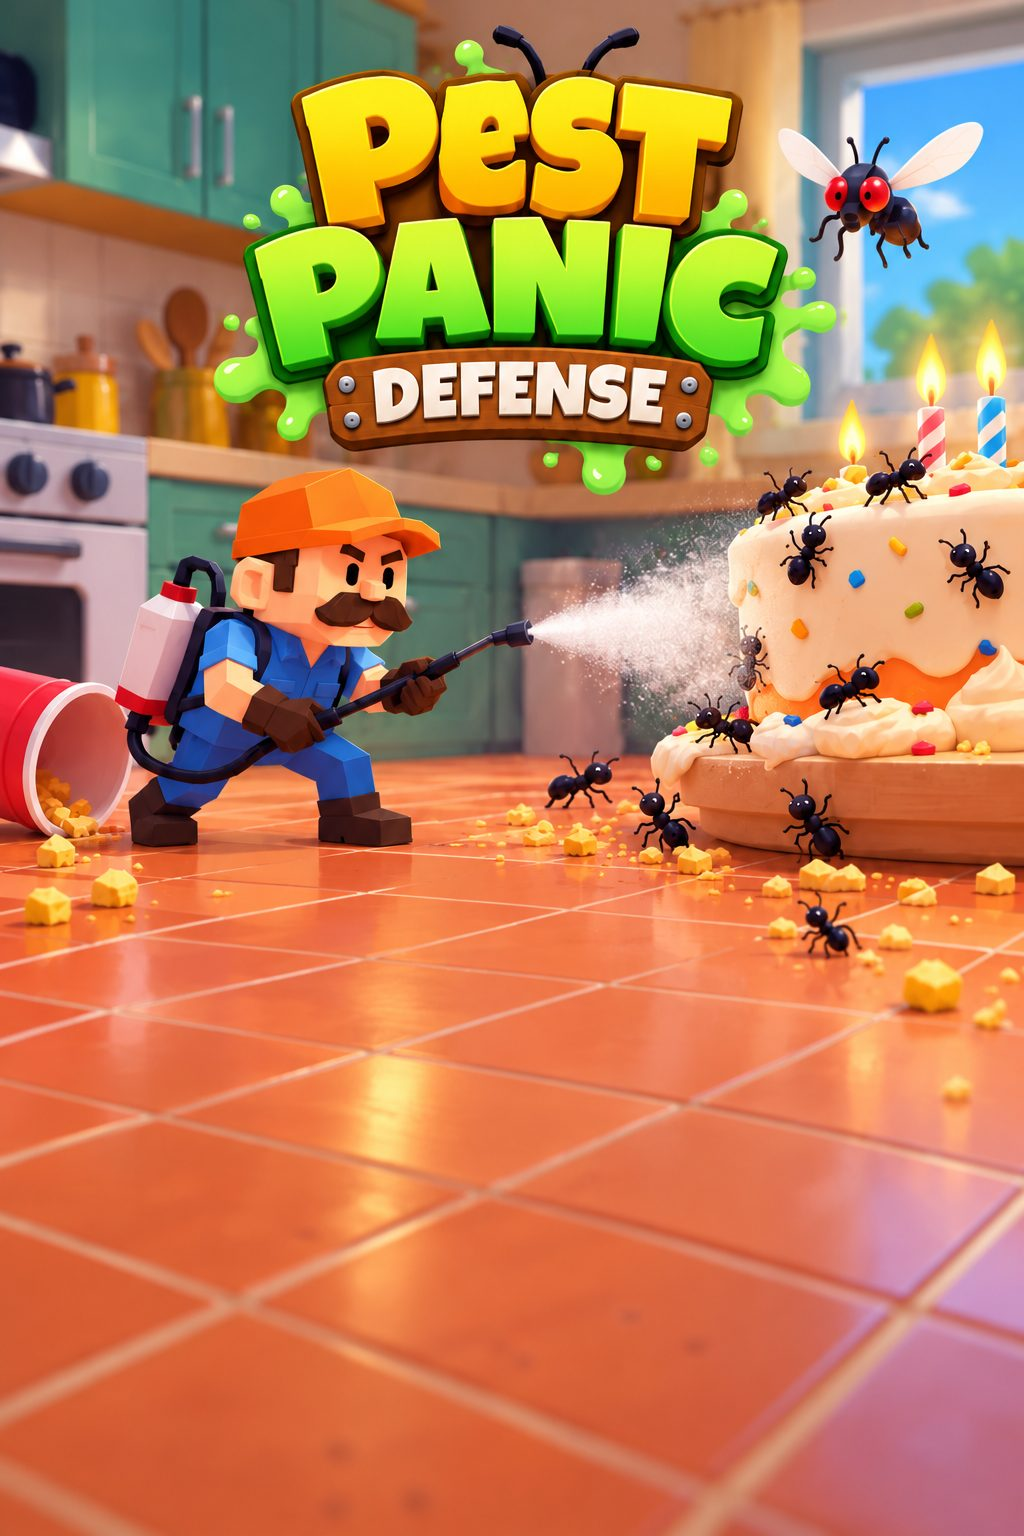
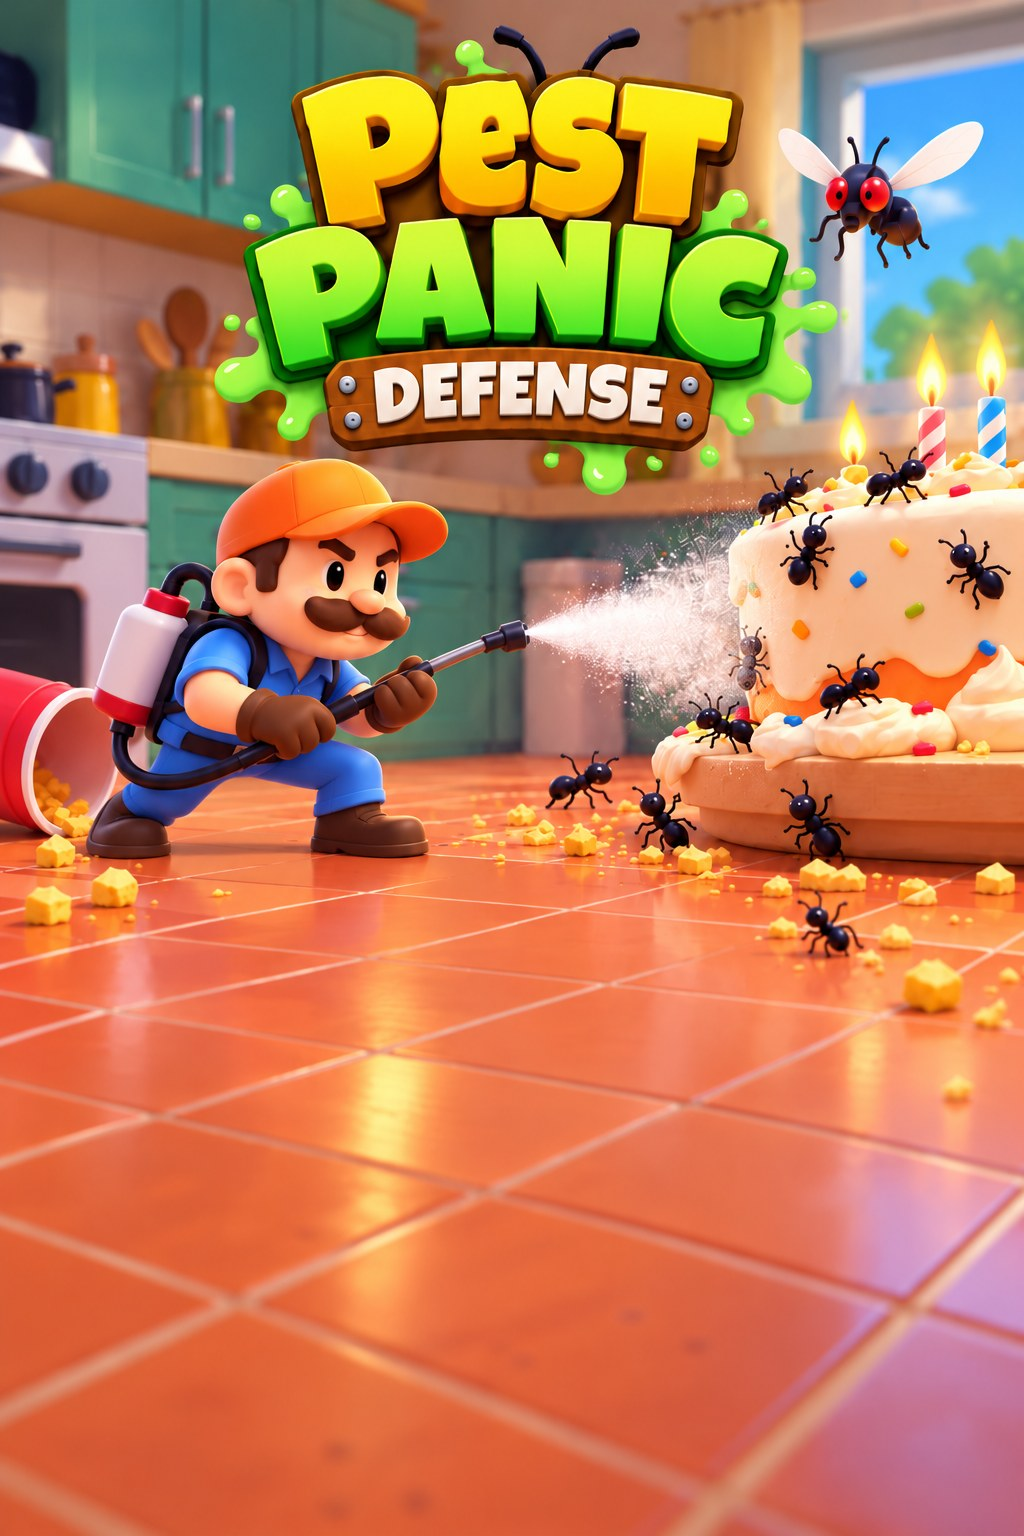
v1.9 (build 310): new title art (wide and tall)
Claude-Session: https://claude.ai/code/session_01U3VZgJwTwg83szoVmunMdz

diff --git a/sw.js b/sw.js
@@ -1,5 +1,5 @@
 // offline support: the game page is fetched fresh when online (so updates show up), everything else is cached
-const CACHE = 'pest-panic-v1.8.309';
+const CACHE = 'pest-panic-v1.9.310';
 const CORE = ['./', 'index.html', 'manifest.webmanifest', 'icons/icon-192.png', 'icons/icon-512.png'];
 self.addEventListener('install', e => { e.waitUntil(caches.open(CACHE).then(c => c.addAll(CORE)).then(() => self.skipWaiting())); });
 self.addEventListener('activate', e => { e.waitUntil(caches.keys().then(ks => Promise.all(ks.filter(k => k !== CACHE).map(k => caches.delete(k)))).then(() => self.clients.claim())); });

diff --git a/index.html b/index.html
@@ -594,7 +594,7 @@ dl.res dt{color:var(--dim)} dl.res dd{margin:0;font-family:var(--display);letter
     <div id="belt" class="off" aria-live="polite"><div class="bh"><small>Next</small><b id="beltW">Wave 1</b><em id="beltT"></em></div><div class="row"><div class="trk" id="beltRow"></div></div></div>
     <div id="stageTag" hidden></div>
     <div id="goldFlash" aria-hidden="true"></div>
-    <div id="ver" data-b="309">v1.8</div>
+    <div id="ver" data-b="310">v1.9</div>
     <div id="vign"></div>
     <div id="hurt"></div>
     <div id="hud" hidden>

diff --git a/README.md b/README.md
@@ -9,4 +9,4 @@ A 3D kitchen tower defense game. Bugs march along a sugar trail toward the birth
 - Works on phones (portrait or landscape) and can be installed: in Chrome, open the menu and choose **Install app** / **Add to Home screen**
 - Plays offline once it has loaded
 
-Current version: v1.8 (build 309). Built with [three.js](https://threejs.org).
+Current version: v1.9 (build 310). Built with [three.js](https://threejs.org).
